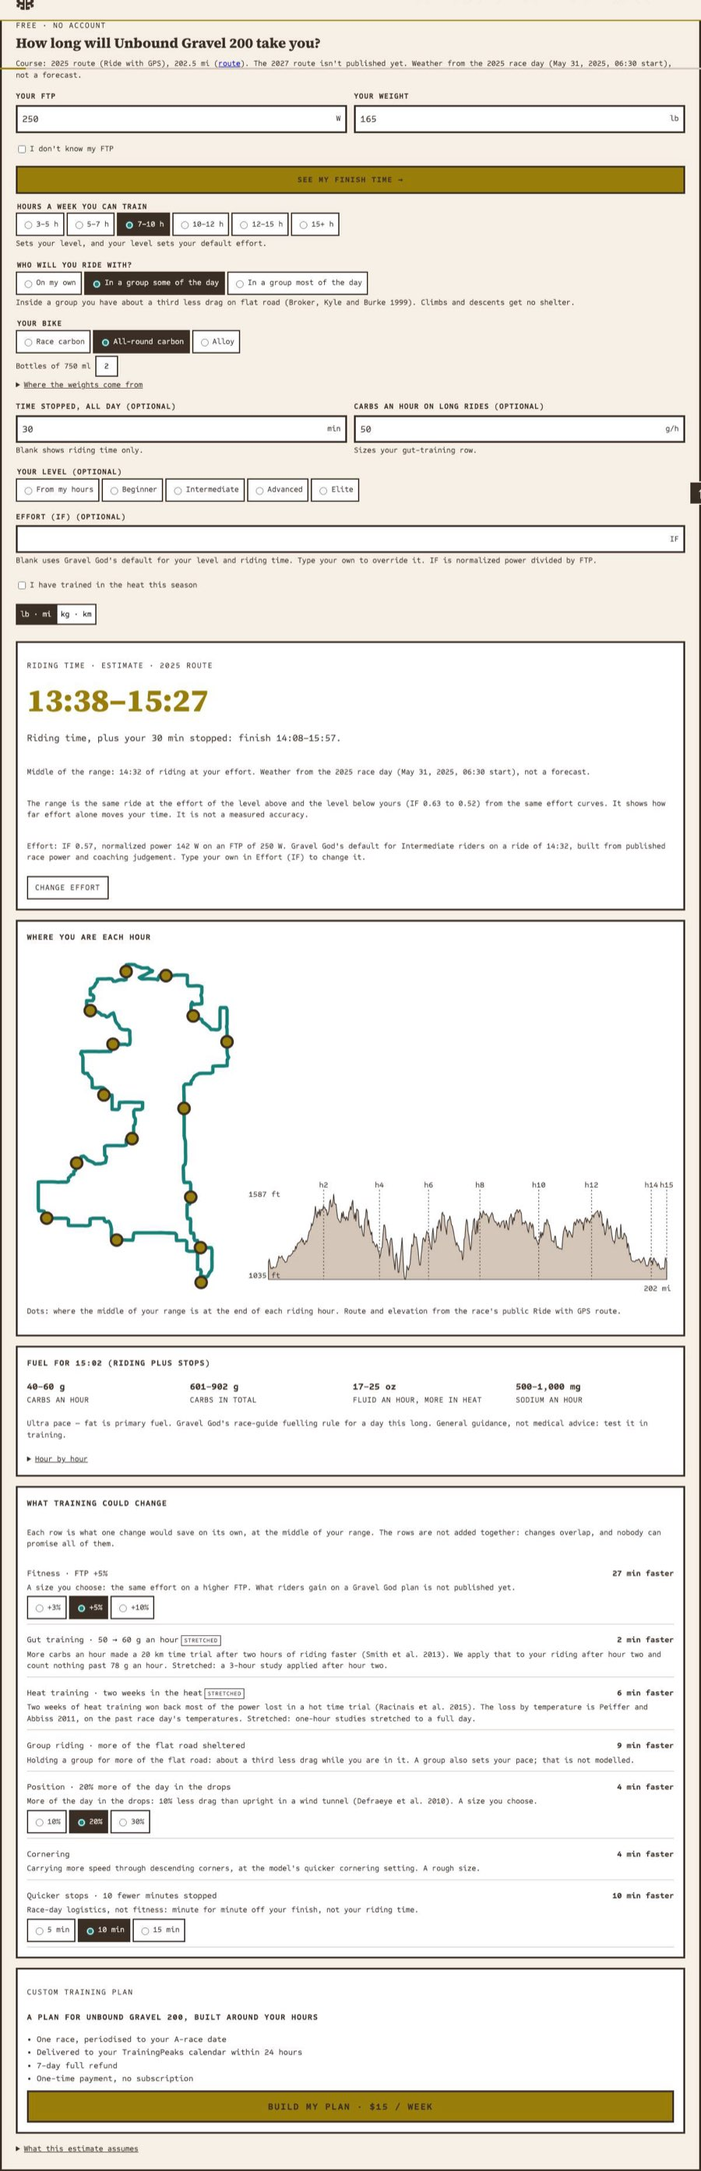
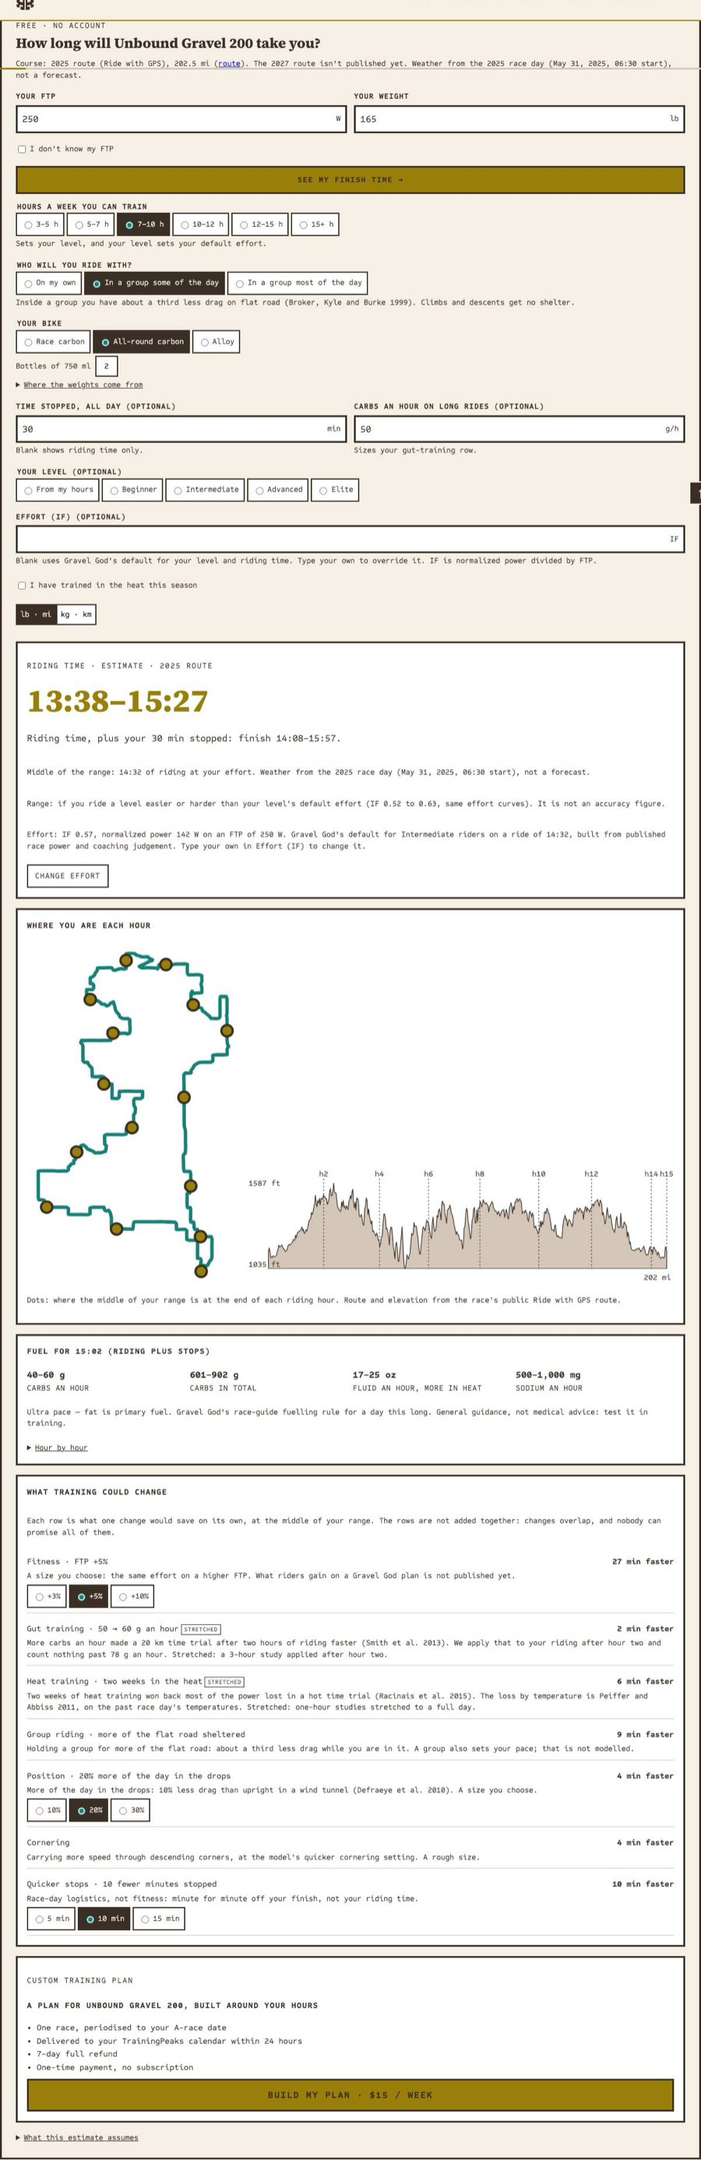
planner: effort-span range (Amendment 2) and review fixes
Range:
- The range is the same ride one level easier and one level harder on the
  same effort curves; top and bottom levels mirror their one neighbour's
  gap; a typed effort gets the same gaps around the typed value. Labelled
  "if you ride a level easier or harder", never as accuracy.
- Climbing-heavy courses get the same span plus the "less certain and may
  read slow" note; the withdrawn "wider range" clause is dropped on import.

Review fixes:
- Clearing or mistyping an input withdraws any time on screen and cancels
  the pending run; non-numeric input ("250abc") is named, never read as
  blank or as its numeric prefix.
- Course check rejects null/non-numeric model settings and weather with no
  hours, uneven columns, gaps or a missing UTC offset (no zero fallback).
- Release contract checks every planner URL in the config JSON (worker,
  engine, core, this race's course) ships under its content hash.
- Planner section no longer registers with the visibility-driven
  race_section_view observer.
- Weather-coverage test now forces a real coverage failure.

diff --git a/wordpress/planner/gg-planner.js b/wordpress/planner/gg-planner.js
@@ -46,7 +46,13 @@
   function mins(s) { return Math.round(s / 60); }
   function dist(km) { return units === "imp" ? Math.round(km / MI) + " mi" : Math.round(km) + " km"; }
   function temp(c) { return units === "imp" ? Math.round(c * 9 / 5 + 32) + "°F" : Math.round(c) + "°C"; }
-  function num(name) { var f = form.elements[name]; if (!f) return null; var v = parseFloat(String(f.value || "").replace(",", ".")); return isFinite(v) ? v : null; }
+  /* null = left blank; NaN = typed but not a plain number (never read as blank). */
+  function num(name) {
+    var f = form.elements[name]; if (!f) return null;
+    var raw = String(f.value || "").trim();
+    if (!raw) return null;
+    return /^\d+([.,]\d+)?$/.test(raw) ? parseFloat(raw.replace(",", ".")) : NaN;
+  }
   function radio(name) { var f = form.querySelector('input[name="' + name + '"]:checked'); return f ? f.value : null; }
 
   /* ---------- units ---------- */
@@ -56,10 +62,10 @@
     try { localStorage.setItem("gg_planner_units", u); } catch (e) {}
     section.querySelectorAll("[data-units]").forEach(function (b) { b.setAttribute("aria-pressed", String(b.getAttribute("data-units") === u)); });
     section.querySelectorAll('[data-unit="weight"]').forEach(function (n) { n.textContent = u === "imp" ? "lb" : "kg"; });
-    if (kg != null) form.elements.kg.value = String(+(u === "imp" ? kg / LB : kg).toFixed(1));
+    if (kg != null && !isNaN(kg)) form.elements.kg.value = String(+(u === "imp" ? kg / LB : kg).toFixed(1));
     if (lastResult) render(lastResult);
   }
-  function readKg() { var v = num("kg"); if (v == null) return null; return units === "imp" ? v * LB : v; }
+  function readKg() { var v = num("kg"); if (v == null || isNaN(v)) return v; return units === "imp" ? v * LB : v; }
 
   /* ---------- worker ---------- */
   function start() {
@@ -76,7 +82,7 @@
       }
       if (m.type === "run" && m.id === runId) {
         if (m.ok) { lastResult = m; render(m); announce(m); }
-        else if (m.miss) showNeed(m.miss);
+        else if (m.miss) { showNeed(m.miss); withdraw(); }
         else fail(m.why);
       }
     };
@@ -89,16 +95,27 @@
     var noftp = form.elements.noftp.checked;
     var bikeId = radio("bike"), bike = cfg.bikes.filter(function (b) { return b.id === bikeId; })[0];
     var bottles = num("bottles");
-    var gearKg = bike && bottles != null && bottles >= 0 && bottles <= 4 ? bike.kg + Math.round(bottles) * cfg.bottle.kg : null;
-    var stops = num("stops"), carbs = num("carbs"), IF = num("if");
+    var gearKg = bike && bottles != null && bottles >= 0 && bottles <= 4 && Math.round(bottles) === bottles ? bike.kg + bottles * cfg.bottle.kg : null;
     return {
       ftp: noftp ? null : num("ftp"),
       band: noftp && radio("band") ? { sex: radio("sex") || "m", name: radio("band") } : null,
       kg: readKg(), gearKg: gearKg, hours: radio("hours"), levelPick: radio("level") || null,
-      group: radio("group"), IF: IF, stops: stops != null && stops >= 0 && stops <= 600 ? stops : null,
-      carbs: carbs != null && carbs >= 0 && carbs <= 200 ? carbs : null,
+      group: radio("group"), IF: num("if"), stops: num("stops"), carbs: num("carbs"),
       heatTrained: form.elements.heat.checked
     };
+  }
+
+  /* Typed values that are not usable. Each is named; none is quietly dropped. */
+  function invalid(r) {
+    var bad = [], typed = function (v) { return v != null; };
+    if (!form.elements.noftp.checked && typed(r.ftp) && !(r.ftp >= 80 && r.ftp <= 500)) bad.push("FTP (80–500 W)");
+    if (typed(r.kg) && !(r.kg >= 35 && r.kg <= 160)) bad.push(units === "imp" ? "weight (77–353 lb)" : "weight (35–160 kg)");
+    if (typed(r.IF) && !(r.IF >= 0.40 && r.IF <= 1.05)) bad.push("effort (IF 0.40–1.05)");
+    if (typed(r.stops) && !(r.stops >= 0 && r.stops <= 600)) bad.push("time stopped (0–600 min)");
+    if (typed(r.carbs) && !(r.carbs >= 0 && r.carbs <= 200)) bad.push("carbs an hour (0–200 g)");
+    var bottles = num("bottles");
+    if (bottles != null && !(bottles >= 0 && bottles <= 4 && Math.round(bottles) === bottles)) bad.push("bottles (0–4)");
+    return bad;
   }
 
   function localMiss(r) {
@@ -107,20 +124,33 @@
     if (r.kg == null) m.push("your weight");
     if (!r.hours) m.push("hours a week you can train");
     if (!r.group) m.push("who you'll ride with");
-    if (r.gearKg == null) m.push("your bike and bottles (0–4)");
+    if (!radio("bike")) m.push("your bike");
+    else if (num("bottles") == null) m.push("bottles (0–4)");
     if (cfg.visitor_sets_effort && r.IF == null) m.push("your effort (IF)");
     return m;
   }
 
-  function showNeed(list) { need.textContent = list.length ? "Still needed: " + list.join(", ") + "." : ""; }
+  function showNeed(list, bad) {
+    var parts = [];
+    if (bad && bad.length) parts.push("Check " + bad.join(", ") + ".");
+    if (list && list.length) parts.push("Still needed: " + list.join(", ") + ".");
+    need.textContent = parts.join(" ");
+  }
+
+  /* An input problem withdraws any time on screen: an old result never
+     stands in for the inputs now in the form. */
+  function withdraw() {
+    runId++; pending = null; lastResult = null;
+    clear(out); out.hidden = true; out.removeAttribute("aria-busy");
+  }
 
   function run() {
     if (!opened) { opened = true; more.hidden = false; }
-    var r = rider(), miss = localMiss(r);
-    showNeed(miss);
-    if (miss.length) return;
+    var r = rider(), bad = invalid(r), miss = localMiss(r);
+    showNeed(miss, bad);
+    if (miss.length || bad.length) { withdraw(); return; }
     start();
-    var msg = { type: "run", rider: r, opts: { spanSteps: cfg.span_steps, visitorSetsEffort: cfg.visitor_sets_effort, edition: 0 },
+    var msg = { type: "run", rider: r, opts: { visitorSetsEffort: cfg.visitor_sets_effort, edition: 0 },
       picks: picks, brackets: cfg.brackets };
     working();
     if (!ready) { if (failInit) { fail(failInit); return; } pending = msg; return; }
@@ -178,13 +208,11 @@
       : "Riding time only, plus your stops. Add your stopped minutes above to see a finish time." }));
     head.appendChild(el("p", { cls: "gg-planner-fine", text: "Middle of the range: " + hm(m.mid) + " of riding at your effort. " + cfg.weather_line }));
     var span = m.span, ifTxt = function (x) { return x.toFixed(2); };
-    var spanTxt = "The range is the same ride at the effort of the " +
-      (cfg.span_steps > 1 ? "levels two above and two below yours" : "level above and the level below yours") +
-      " (IF " + ifTxt(span.fast) + " to " + ifTxt(span.slow) + ") from the same effort curves" +
-      (m.ftp.lo !== m.ftp.hi ? ", and across your band's FTP (" + Math.round(m.ftp.lo) + "–" + Math.round(m.ftp.hi) + " W)" : "") +
-      ". It shows how far effort alone moves your time. It is not a measured accuracy.";
-    if (span.fast === m.IF) spanTxt += " Elite is the top level, so the range only runs slower.";
-    if (span.slow === m.IF) spanTxt += " Beginner is the bottom level, so the range only runs faster.";
+    var spanTxt = "Range: if you ride a level easier or harder than " +
+      (m.IFsource === "set" ? "the effort you typed" : "your level's default effort") +
+      " (IF " + ifTxt(span.slow) + " to " + ifTxt(span.fast) + ", same effort curves)" +
+      (m.ftp.lo !== m.ftp.hi ? ", across your band's FTP (" + Math.round(m.ftp.lo) + "–" + Math.round(m.ftp.hi) + " W)" : "") +
+      ". It is not an accuracy figure.";
     head.appendChild(el("p", { cls: "gg-planner-fine", text: spanTxt }));
     cfg.notes.forEach(function (n) { head.appendChild(el("p", { cls: "gg-planner-flag", text: n.charAt(0).toUpperCase() + n.slice(1) + "." })); });
     var effort = "Effort: IF " + m.IF.toFixed(2) + ", normalized power " + Math.round(m.np) + " W on an FTP of " + Math.round(m.ftp.mid) + " W" +

diff --git a/wordpress/planner/gg-planner-core.js b/wordpress/planner/gg-planner-core.js
@@ -63,10 +63,17 @@
     if (!Array.isArray(src) || !src.length) return { ok: false, why: "no weather for this edition" };
     var out = [];
     for (var s = 0; s < src.length; s++) {
-      var w = src[s], h = w.hourly || {}, off = w.utc_offset_seconds || 0;
-      if (!h.time || !h.temperature_2m || !h.wind_speed_10m || !h.wind_direction_10m)
-        return { ok: false, why: "weather file is missing a column" };
-      var t = h.time.map(function (x) { return Date.parse(x + "Z") / 1000 - off; });
+      var w = src[s], h = w.hourly || {}, off = w.utc_offset_seconds;
+      if (!isNum(off) || !isNum(w.latitude) || !isNum(w.longitude))
+        return { ok: false, why: "weather station details are incomplete" };
+      var cols = [h.time, h.temperature_2m, h.wind_speed_10m, h.wind_direction_10m];
+      if (!cols.every(Array.isArray)) return { ok: false, why: "weather file is missing a column" };
+      var nh = h.time.length;
+      if (!nh || !cols.every(function (a) { return a.length === nh; }))
+        return { ok: false, why: "weather file has no hours or uneven columns" };
+      if (![h.temperature_2m, h.wind_speed_10m, h.wind_direction_10m].every(function (a) { return a.every(isNum); }))
+        return { ok: false, why: "weather file has a gap" };
+      var t = h.time.map(function (x) { return typeof x === "string" ? Date.parse(x + "Z") / 1000 - off : NaN; });
       if (!t.every(isFinite)) return { ok: false, why: "weather time labels are unreadable" };
       out.push({ la: w.latitude, lo: w.longitude, t: t, ws: h.wind_speed_10m, wd: h.wind_direction_10m, T: h.temperature_2m });
     }
@@ -156,17 +163,23 @@
   }
 
   /* ---------- effort span (the range) ----------
-     The range is the effort of the level above and the level below the
-     rider's, from the same locked curves, at the rider's riding hours
-     (span: levels each way; climbing-heavy courses use 2). No accuracy
-     claim: it is how far effort alone moves the time. */
-  function effortSpan(E, level, IF, hours, steps) {
+     The range is the same ride one level easier and one level harder, on
+     the same locked curves at the rider's riding hours. The top and bottom
+     levels have one neighbour, so that one gap is used on both sides. A
+     typed effort gets the same gaps, centred on the typed value. It is an
+     effort span, not an accuracy or uncertainty figure. */
+  function effortSpan(E, level, IF, hours) {
     var i = levelIndex(level), here = E.ifDefault(level, hours);
-    var upIdx = Math.min(LEVELS.length - 1, i + steps), dnIdx = Math.max(0, i - steps);
-    var up = E.ifDefault(LEVELS[upIdx], hours) - here, dn = here - E.ifDefault(LEVELS[dnIdx], hours);
-    if (!(up >= 0) || !(dn >= 0)) return null;
-    return { fast: Math.min(IF_MAX, IF + up), slow: Math.max(IF_MIN, IF - dn), upLevel: LEVELS[upIdx], dnLevel: LEVELS[dnIdx] };
+    var up = i < LEVELS.length - 1 ? E.ifDefault(LEVELS[i + 1], hours) - here : null;
+    var dn = i > 0 ? here - E.ifDefault(LEVELS[i - 1], hours) : null;
+    if (up == null) up = dn;
+    if (dn == null) dn = up;
+    if (!(up > 0) || !(dn > 0)) return null;
+    return { fast: Math.min(IF_MAX, IF + up), slow: Math.max(IF_MIN, IF - dn), up: up, dn: dn };
   }
+
+  /* A real number: null, "", strings and NaN are never read as values. */
+  function isNum(x) { return typeof x === "number" && isFinite(x); }
 
   /* Every bin value must be a finite number; a gap is never read as zero. */
   function checkCourse(course) {
@@ -181,13 +194,15 @@
       for (var i = 0; i < n; i++) if (typeof a[i] !== "number" || !isFinite(a[i])) return "the course data has a gap";
     }
     var e = course.engine;
-    if (!e || !isFinite(e.crr) || !isFinite(e.wf) || !isFinite(e.cap) || !isFinite(e.solo_cda_default) || !Array.isArray(e.phi) || e.phi.length !== 12)
+    if (!e || !(isNum(e.crr) && e.crr > 0 && e.crr < 0.1) || !(isNum(e.wf) && e.wf >= 0 && e.wf <= 1) ||
+        !(isNum(e.cap) && e.cap > 0) || !(isNum(e.solo_cda_default) && e.solo_cda_default > 0 && e.solo_cda_default < 1) ||
+        !Array.isArray(e.phi) || e.phi.length !== 12 || !e.phi.every(function (x) { return isNum(x) && x > 0; }))
       return "the model settings for this course are incomplete";
     return null;
   }
 
   /* ---------- the whole estimate ---------- */
-  /* opts: {edition (index into course.weather.editions), spanSteps,
+  /* opts: {edition (index into course.weather.editions),
      visitorSetsEffort} */
   function estimate(E, course, rider, opts) {
     opts = opts || {};
@@ -228,7 +243,7 @@
       cum = cumOf(mid.T);
     }
     var hours = mid.total / 3600;
-    var span = effortSpan(E, level, IFused, hours, opts.spanSteps || 1);
+    var span = effortSpan(E, level, IFused, hours);
     if (!span) return { ok: false, why: "effort:span" };
     var fast = runOnce(E, D, withNP(span.fast * F.hi));
     if (!fast.ok) return { ok: false, why: fast.why };

diff --git a/tests/test_race_planner.py b/tests/test_race_planner.py
@@ -161,6 +161,10 @@ def test_analytics_events_go_through_gtag_behind_consent():
     assert "gtag(\"event\", cfg.events.result" in js and "gtag(\"event\", cfg.events.cta" in js
     # fired from user actions only: no timers drive an event
     assert not re.search(r"setInterval", js)
+    # the page's section-view observer fires on visibility, including on load:
+    # the planner is not registered with it
+    opening = re.match(r"<section[^>]*>", section(page(SHOWN[0]))).group(0)
+    assert "data-measure-section" not in opening
 
 
 def test_plan_button_goes_to_the_existing_checkout():
@@ -181,7 +185,7 @@ def test_fuel_brackets_come_from_the_pipeline():
 def test_wording():
     js = (PLANNER_JS / "gg-planner.js").read_text()
     sec = section(page("unbound-200"))
-    assert "estimate" in js.lower() and "not a measured accuracy" in js
+    assert "estimate" in js.lower() and "if you ride a level easier or harder" in js and "not an accuracy figure" in js
     assert "not added together" in js
     assert "not a forecast" in sec and "race day" in sec
     assert "2025 route" in sec and "The 2027 route isn't published yet." in sec
@@ -198,10 +202,45 @@ def test_unconfirmed_edition_is_said_as_it_is():
         assert "edition not confirmed" in cfg["edition_line"] and cfg["edition_short"] == "route edition not confirmed"
 
 
-def test_climbing_heavy_widens_the_range():
+def test_climbing_heavy_gets_the_same_range_and_a_note():
+    """Amendment 2: same effort span on climbing-heavy courses, plus the note;
+    never a 'wider range'."""
+    js = (PLANNER_JS / "gg-planner.js").read_text()
+    assert "span_steps" not in js and "spanSteps" not in (PLANNER_JS / "gg-planner-core.js").read_text()
     for slug in SHOWN:
         kinds = {f["kind"] for f in STATUS["races"][slug].get("flags", [])}
-        assert config(page(slug))["span_steps"] == (2 if "climbing" in kinds else 1)
+        cfg = config(page(slug))
+        assert "span_steps" not in cfg
+        assert "wider" not in section(page(slug)).lower()
+        if "climbing" in kinds:
+            assert any("less certain and may read slow" in n for n in cfg["notes"])
+
+
+def test_range_is_one_level_each_way_mirrored_at_the_ends():
+    if shutil.which("node") is None:
+        pytest.skip("node not installed")
+    script = (
+        "const E=require(process.argv[1]),c=require(process.argv[2]),h=6,out={};"
+        "for(const l of c.LEVELS){const d=E.ifDefault(l,h);"
+        "out[l]={here:d,def:c.effortSpan(E,l,d,h),typed:c.effortSpan(E,l,0.7,h)};}"
+        "out.curve=Object.fromEntries(c.LEVELS.map(l=>[l,E.ifDefault(l,h)]));"
+        "process.stdout.write(JSON.stringify(out));"
+    )
+    res = subprocess.run(["node", "-e", script, str(PLANNER_JS / "engine7.js"), str(PLANNER_JS / "gg-planner-core.js")],
+                         capture_output=True, text=True, timeout=60)
+    assert res.returncode == 0, res.stderr
+    out = json.loads(res.stdout)
+    curve, levels = out["curve"], ["beginner", "intermediate", "advanced", "elite"]
+    for i, lvl in enumerate(levels):
+        up = curve[levels[i + 1]] - curve[lvl] if i < 3 else None
+        dn = curve[lvl] - curve[levels[i - 1]] if i > 0 else None
+        up, dn = (up if up is not None else dn), (dn if dn is not None else up)
+        span = out[lvl]["def"]
+        assert span["up"] == pytest.approx(up) and span["dn"] == pytest.approx(dn), lvl
+        assert span["fast"] == pytest.approx(min(1.05, out[lvl]["here"] + up))
+        assert span["slow"] == pytest.approx(max(0.40, out[lvl]["here"] - dn))
+        typed = out[lvl]["typed"]
+        assert typed["fast"] == pytest.approx(0.7 + up) and typed["slow"] == pytest.approx(0.7 - dn), lvl
 
 
 def test_assets_written_are_hashed_and_only_for_shown_races(tmp_path):
@@ -230,6 +269,26 @@ def test_release_contract_accepts_the_planner_in_place_of_the_calculator():
     release.verify_page_contract(html, slug, hrefs)
     with pytest.raises(ValueError, match="Calculator"):
         release.verify_page_contract(html, "other-race", hrefs)
+
+
+def test_release_package_must_ship_every_planner_asset_the_config_loads(tmp_path):
+    sys.path.insert(0, str(ROOT / "scripts"))
+    import prepare_race_release as release
+    slug, other = SHOWN[0], SHOWN[1]
+    pages = tmp_path / "pages"
+    pages.mkdir()
+    html = page(slug)
+    race_planner.write_planner_assets(pages, [slug])
+    release.verify_planner_assets(pages, slug, html)
+    with pytest.raises(ValueError, match="does not belong"):
+        release.verify_planner_assets(pages, other, html)
+    worker = pages / "assets" / "planner" / config(html)["worker_url"].rsplit("/", 1)[1]
+    worker.write_text(worker.read_text() + "\n")
+    with pytest.raises(ValueError, match="worker_url"):
+        release.verify_planner_assets(pages, slug, html)
+    worker.unlink()
+    with pytest.raises(ValueError, match="worker_url"):
+        release.verify_planner_assets(pages, slug, html)
 
 
 # ---------- the model runs on every shown course ----------
@@ -263,4 +322,7 @@ def test_a_failed_solve_shows_no_time_and_says_why(solved, slug):
     assert r["broken"] == {"ok": False, "why": "the course data has a gap", "has_time": False}
     assert r["solver_fail"]["ok"] is False and r["solver_fail"]["has_time"] is False
     assert r["solver_fail"]["why"].startswith("solve:")
-    assert r["uncovered"]["ok"] is False or r["uncovered"]["why"] is None
+    assert r["uncovered"] == {"ok": False, "has_time": False,
+                              "why": "the past race-day weather does not cover your predicted time on course"}
+    assert r["empty_weather"] == {"ok": False, "has_time": False, "why": "weather file has no hours or uneven columns"}
+    assert r["no_crr"] == {"ok": False, "has_time": False, "why": "the model settings for this course are incomplete"}

diff --git a/scripts/prepare_race_release.py b/scripts/prepare_race_release.py
@@ -151,7 +151,7 @@ class Markup(HTMLParser):
             self.sections.append(a.get("id"))
         if a.get("id") == "race-calculator":
             self.calculators += 1
-        if tag == "section" and a.get("id") == "finish-time" and a.get("data-measure-section") == "finish-time-planner":
+        if tag == "section" and a.get("id") == "finish-time" and "gg-planner" in a.get("class", "").split():
             self.planners += 1
         if tag == "link" and a.get("rel") == "canonical":
             self.canonical.append(a.get("href"))
@@ -312,6 +312,33 @@ def verify_assets(package: Path) -> None:
             resolved = (pages / relative).resolve()
             if not resolved.is_relative_to(pages.resolve()) or not resolved.is_file():
                 raise ValueError("Missing or unsafe shared asset reference")
+        verify_planner_assets(pages, page.stem, text)
+
+
+PLANNER_URL_KEYS = ("course_url", "worker_url", "engine_url", "core_url")
+
+
+def verify_planner_assets(pages: Path, slug: str, text: str) -> None:
+    """A planner page loads its worker, engine, core and course from URLs in its
+    config JSON, which the href/src scan cannot see. Each must ship in the
+    package, under its content hash, and the course must be this race's."""
+    match = re.search(r'<script type="application/json" class="gg-planner-config">(.*?)</script>', text, re.S)
+    if not match:
+        return
+    try:
+        config = json.loads(match.group(1))
+    except ValueError:
+        raise ValueError("Unreadable planner config") from None
+    for key in PLANNER_URL_KEYS:
+        url = config.get(key)
+        name = re.fullmatch(r"/race/assets/planner/([a-z0-9]+(?:-[a-z0-9]+)*)\.([0-9a-f]{8})\.(js|json)", url or "")
+        if not name:
+            raise ValueError("Missing or unsafe planner asset reference")
+        path = pages / "assets" / "planner" / url.rsplit("/", 1)[1]
+        if not path.is_file() or hashlib.md5(path.read_bytes()).hexdigest()[:8] != name.group(2):
+            raise ValueError("Planner asset missing or hash mismatch: " + key)
+        if key == "course_url" and (name.group(1) != slug or name.group(3) != "json"):
+            raise ValueError("Planner course does not belong to this race")
 
 
 def package_files(package: Path, slugs: list[str]) -> dict[str, dict]:

diff --git a/wordpress/race_planner.py b/wordpress/race_planner.py
@@ -220,7 +220,6 @@ def planner_config(rd: dict, show_offer: bool) -> dict | None:
         "weather_line": _weather_line(summary),
         "distance_m": summary["distance_m"],
         "notes": [f["text"] for f in flags if f["kind"] == "climbing"],
-        "span_steps": 2 if "climbing" in kinds else 1,
         "visitor_sets_effort": "visitor_sets_effort" in kinds,
         "brackets": duration_brackets(),
         "bikes": [{"id": b["id"], "label": b["label"], "kg": b["kg"]} for b in gear["bikes"]],
@@ -273,7 +272,7 @@ def build_race_planner(rd: dict, show_offer: bool = True) -> str:
     effort_note = ("This course has no default effort: type the effort (IF) you held in a race of a similar length."
                    if cfg["visitor_sets_effort"] else
                    "Blank uses Gravel God's default for your level and riding time. Type your own to override it.")
-    return f'''<section id="finish-time" class="gg-planner" aria-labelledby="gg-planner-title" data-measure-section="finish-time-planner">
+    return f'''<section id="finish-time" class="gg-planner" aria-labelledby="gg-planner-title">
   <div class="gg-planner-head">
     <span class="gg-planner-kicker">Free · no account</span>
     <h2 id="gg-planner-title">How long will {race} take you?</h2>

diff --git a/scripts/import_planner_bundles.py b/scripts/import_planner_bundles.py
@@ -51,6 +51,10 @@ FLAG_KINDS = {
     "climbing-heavy": "climbing",
     "time outside 3-9 h": "visitor_sets_effort",
 }
+# Page text the launch decisions have since withdrawn (Amendment 2: a
+# climbing-heavy course gets the same range, not a wider one). Dropped from
+# the imported text; any other wording passes through unchanged.
+WITHDRAWN_CLAUSES = (" (shown with a wider range)",)
 # Flags that are for the route check only and never reach a visitor.
 PRIVATE_FLAG_PAGE = "route check needed (not shown to visitors)"
 
@@ -69,7 +73,10 @@ def public_flags(race: dict) -> list[dict]:
         kind = FLAG_KINDS.get(flag.get("flag"))
         if kind is None:
             raise SystemExit(f"unknown planner flag {flag.get('flag')!r}: add page behaviour before importing")
-        out.append({"kind": kind, "text": flag["page"]})
+        text = flag["page"]
+        for clause in WITHDRAWN_CLAUSES:
+            text = text.replace(clause, "")
+        out.append({"kind": kind, "text": text})
     return out
 
 
